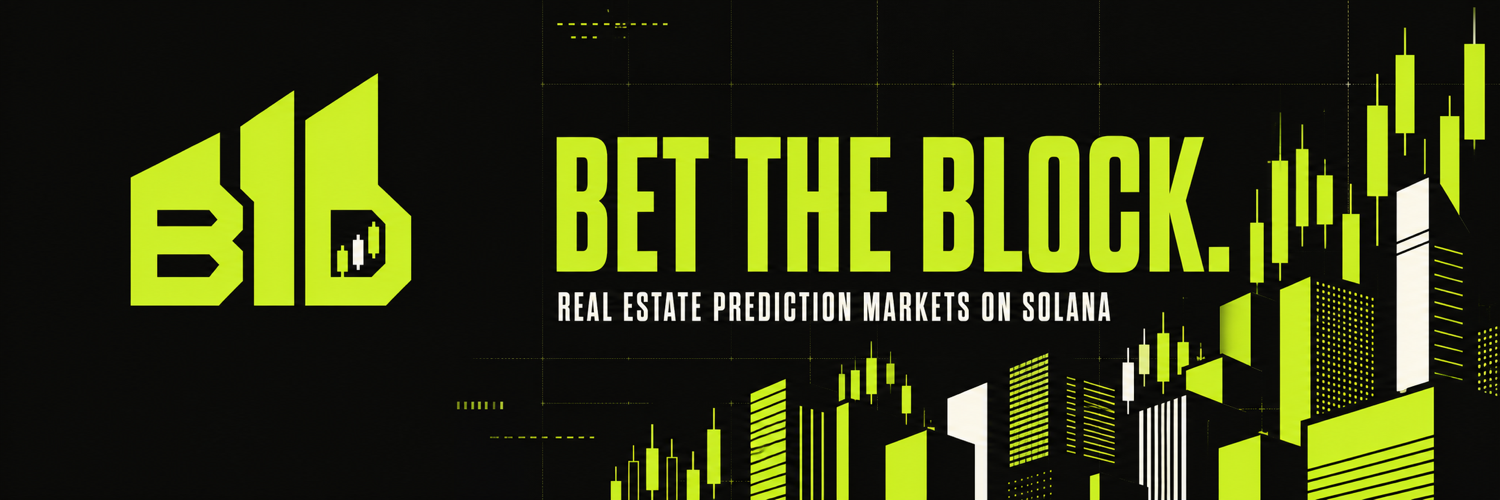
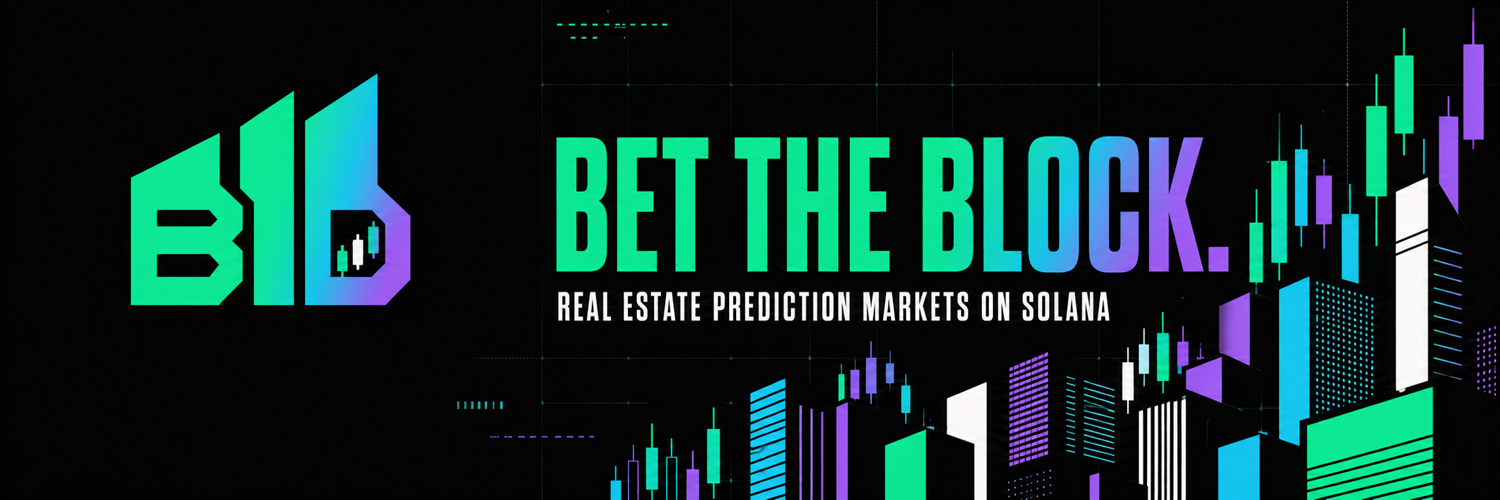
Shift BID to Solana palette

diff --git a/app/globals.css b/app/globals.css
@@ -4,14 +4,15 @@
   --ink: #10120f;
   --paper: #f0eee7;
   --panel: #e6e3da;
-  --lime: #c8ff3d;
-  --acid: #dcff84;
+  --lime: #14f195;
+  --acid: #7cf7c6;
   --muted: #74786e;
   --line: rgba(16, 18, 15, 0.18);
-  --coral: #ff6b4a;
-  --mint: #74dfb1;
-  --violet: #9a83ff;
-  --gold: #f4c95d;
+  --coral: #00c2ff;
+  --mint: #14f195;
+  --violet: #9945ff;
+  --gold: #c08cff;
+  --solana-gradient: linear-gradient(110deg, #14f195 0%, #00d1ff 52%, #9945ff 100%);
 }
 
 * {
@@ -157,7 +158,7 @@ a {
   left: 0;
   right: 0;
   height: 2px;
-  background: var(--lime);
+  background: var(--solana-gradient);
   content: "";
 }
 
@@ -188,14 +189,14 @@ a {
   height: 6px;
   border-radius: 50%;
   background: var(--lime);
-  box-shadow: 0 0 14px rgba(200, 255, 61, 0.7);
+  box-shadow: 0 0 14px rgba(20, 241, 149, 0.7);
 }
 
 .wallet-button {
   height: 38px;
   padding: 0 17px;
   border: 1px solid var(--lime);
-  background: var(--lime);
+  background: var(--solana-gradient);
   color: var(--ink);
   cursor: pointer;
   font-family: var(--font-geist-mono);
@@ -203,17 +204,18 @@ a {
   font-weight: 700;
   letter-spacing: 0.03em;
   text-transform: uppercase;
-  transition: transform 160ms ease, background 160ms ease;
+  transition: transform 160ms ease, filter 160ms ease;
 }
 
 .wallet-button:hover {
   transform: translateY(-2px);
-  background: #ddff84;
+  filter: brightness(1.12);
 }
 
 .wallet-button.connected {
   background: transparent;
   color: var(--lime);
+  filter: none;
 }
 
 .hero {
@@ -267,7 +269,7 @@ a {
 
 .eyebrow span {
   padding: 4px 6px;
-  background: var(--lime);
+  background: var(--solana-gradient);
   color: var(--ink);
   font-weight: 700;
 }
@@ -282,7 +284,11 @@ a {
 
 .hero h1 em {
   color: var(--lime);
+  background: var(--solana-gradient);
+  background-clip: text;
   font-style: normal;
+  -webkit-background-clip: text;
+  -webkit-text-fill-color: transparent;
 }
 
 .hero-copy > p {
@@ -306,7 +312,7 @@ a {
   width: 184px;
   height: 50px;
   padding: 0 17px;
-  background: var(--lime);
+  background: var(--solana-gradient);
   color: var(--ink);
   font-family: var(--font-geist-mono);
   font-size: 10px;
@@ -344,9 +350,10 @@ a {
   margin-left: 42px;
   border: 1px solid rgba(255, 255, 255, 0.16);
   background:
-    radial-gradient(circle at 77% 28%, rgba(200, 255, 61, 0.12), transparent 28%),
+    radial-gradient(circle at 77% 28%, rgba(153, 69, 255, 0.14), transparent 28%),
+    radial-gradient(circle at 42% 70%, rgba(20, 241, 149, 0.08), transparent 34%),
     #151814;
-  box-shadow: 28px 28px 0 rgba(200, 255, 61, 0.04);
+  box-shadow: 28px 28px 0 rgba(20, 241, 149, 0.04);
 }
 
 .hero-market-head {
@@ -450,7 +457,7 @@ a {
   gap: 5px;
   height: 210px;
   padding-top: 20px;
-  border-bottom: 1px solid rgba(200, 255, 61, 0.38);
+  border-bottom: 1px solid rgba(20, 241, 149, 0.38);
   background:
     repeating-linear-gradient(0deg, transparent 0 45px, rgba(255, 255, 255, 0.06) 45px 46px);
 }
@@ -458,13 +465,13 @@ a {
 .mini-chart i {
   flex: 1;
   min-width: 3px;
-  background: linear-gradient(to top, rgba(200, 255, 61, 0.05), var(--lime));
+  background: linear-gradient(to top, rgba(20, 241, 149, 0.05), #14f195 42%, #00d1ff 72%, #9945ff);
   opacity: 0.8;
 }
 
 .mini-chart i:nth-last-child(-n+5) {
   opacity: 1;
-  box-shadow: 0 0 16px rgba(200, 255, 61, 0.12);
+  box-shadow: 0 0 16px rgba(20, 241, 149, 0.12);
 }
 
 .chart-scale {
@@ -516,7 +523,7 @@ a {
   grid-template-columns: repeat(4, 1fr);
   min-height: 98px;
   border-bottom: 1px solid var(--line);
-  background: var(--lime);
+  background: var(--solana-gradient);
 }
 
 .ticker div {
@@ -681,7 +688,7 @@ a {
   bottom: -1px;
   left: -1px;
   width: 4px;
-  background: var(--lime);
+  background: linear-gradient(180deg, #14f195, #00d1ff 55%, #9945ff);
   border-right: 1px solid var(--ink);
   content: "";
 }
@@ -1288,7 +1295,7 @@ a {
   margin: 0 18px;
   padding: 0 16px;
   border: 1px solid var(--ink);
-  background: var(--lime);
+  background: var(--solana-gradient);
   cursor: pointer;
   font-family: var(--font-geist-mono);
   font-size: 10px;
@@ -1297,7 +1304,7 @@ a {
 }
 
 .review-button:hover {
-  background: var(--acid);
+  filter: brightness(1.08);
 }
 
 .review-button span {
@@ -1444,7 +1451,7 @@ a {
   background:
     linear-gradient(90deg, transparent 0 50%, rgba(16, 18, 15, 0.12) 50% 50.1%, transparent 50.1%),
     repeating-linear-gradient(0deg, transparent 0 74px, rgba(16, 18, 15, 0.07) 74px 75px),
-    var(--lime);
+    linear-gradient(115deg, #14f195 0%, #00d1ff 58%, #9945ff 120%);
 }
 
 .portfolio-tease::after {
@@ -1555,7 +1562,7 @@ footer > small {
   border: 1px solid rgba(255, 255, 255, 0.25);
   background: var(--ink);
   color: #fff;
-  box-shadow: 18px 18px 0 rgba(200, 255, 61, 0.14);
+  box-shadow: 18px 18px 0 rgba(20, 241, 149, 0.14);
 }
 
 .modal-head {
@@ -1677,7 +1684,7 @@ footer > small {
   font-size: 11px;
   line-height: 1.35;
   text-align: left;
-  box-shadow: 8px 8px 0 rgba(200, 255, 61, 0.2);
+  box-shadow: 8px 8px 0 rgba(20, 241, 149, 0.2);
 }
 
 .toast > span {
@@ -1685,7 +1692,7 @@ footer > small {
   width: 20px;
   height: 20px;
   place-items: center;
-  background: var(--lime);
+  background: var(--solana-gradient);
   color: var(--ink);
   font-size: 10px;
 }
